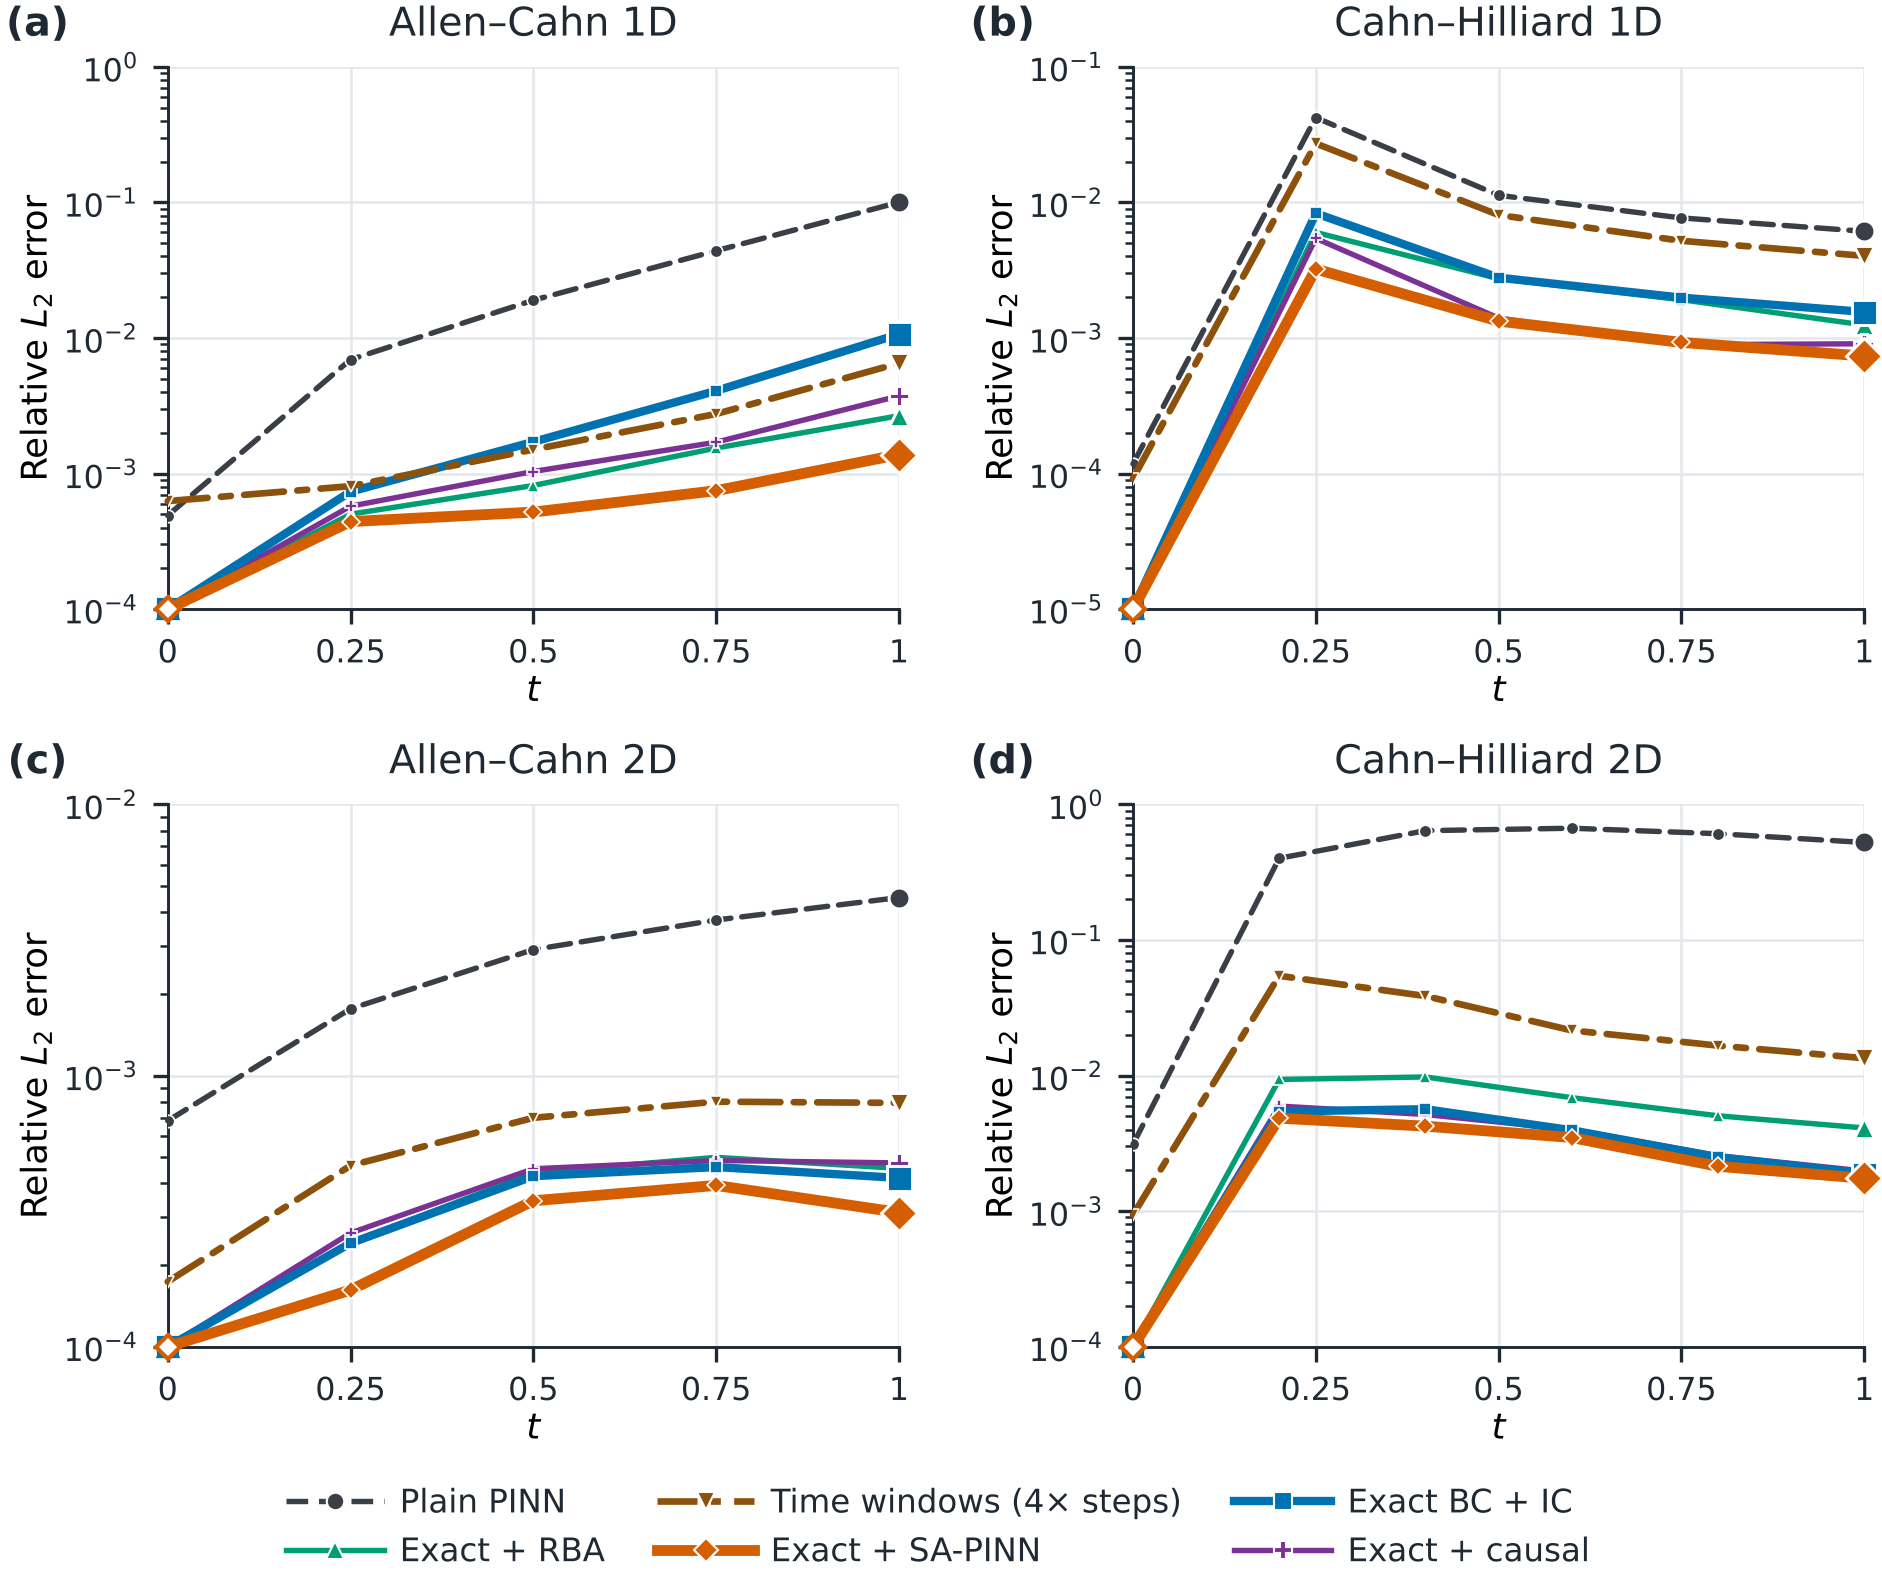
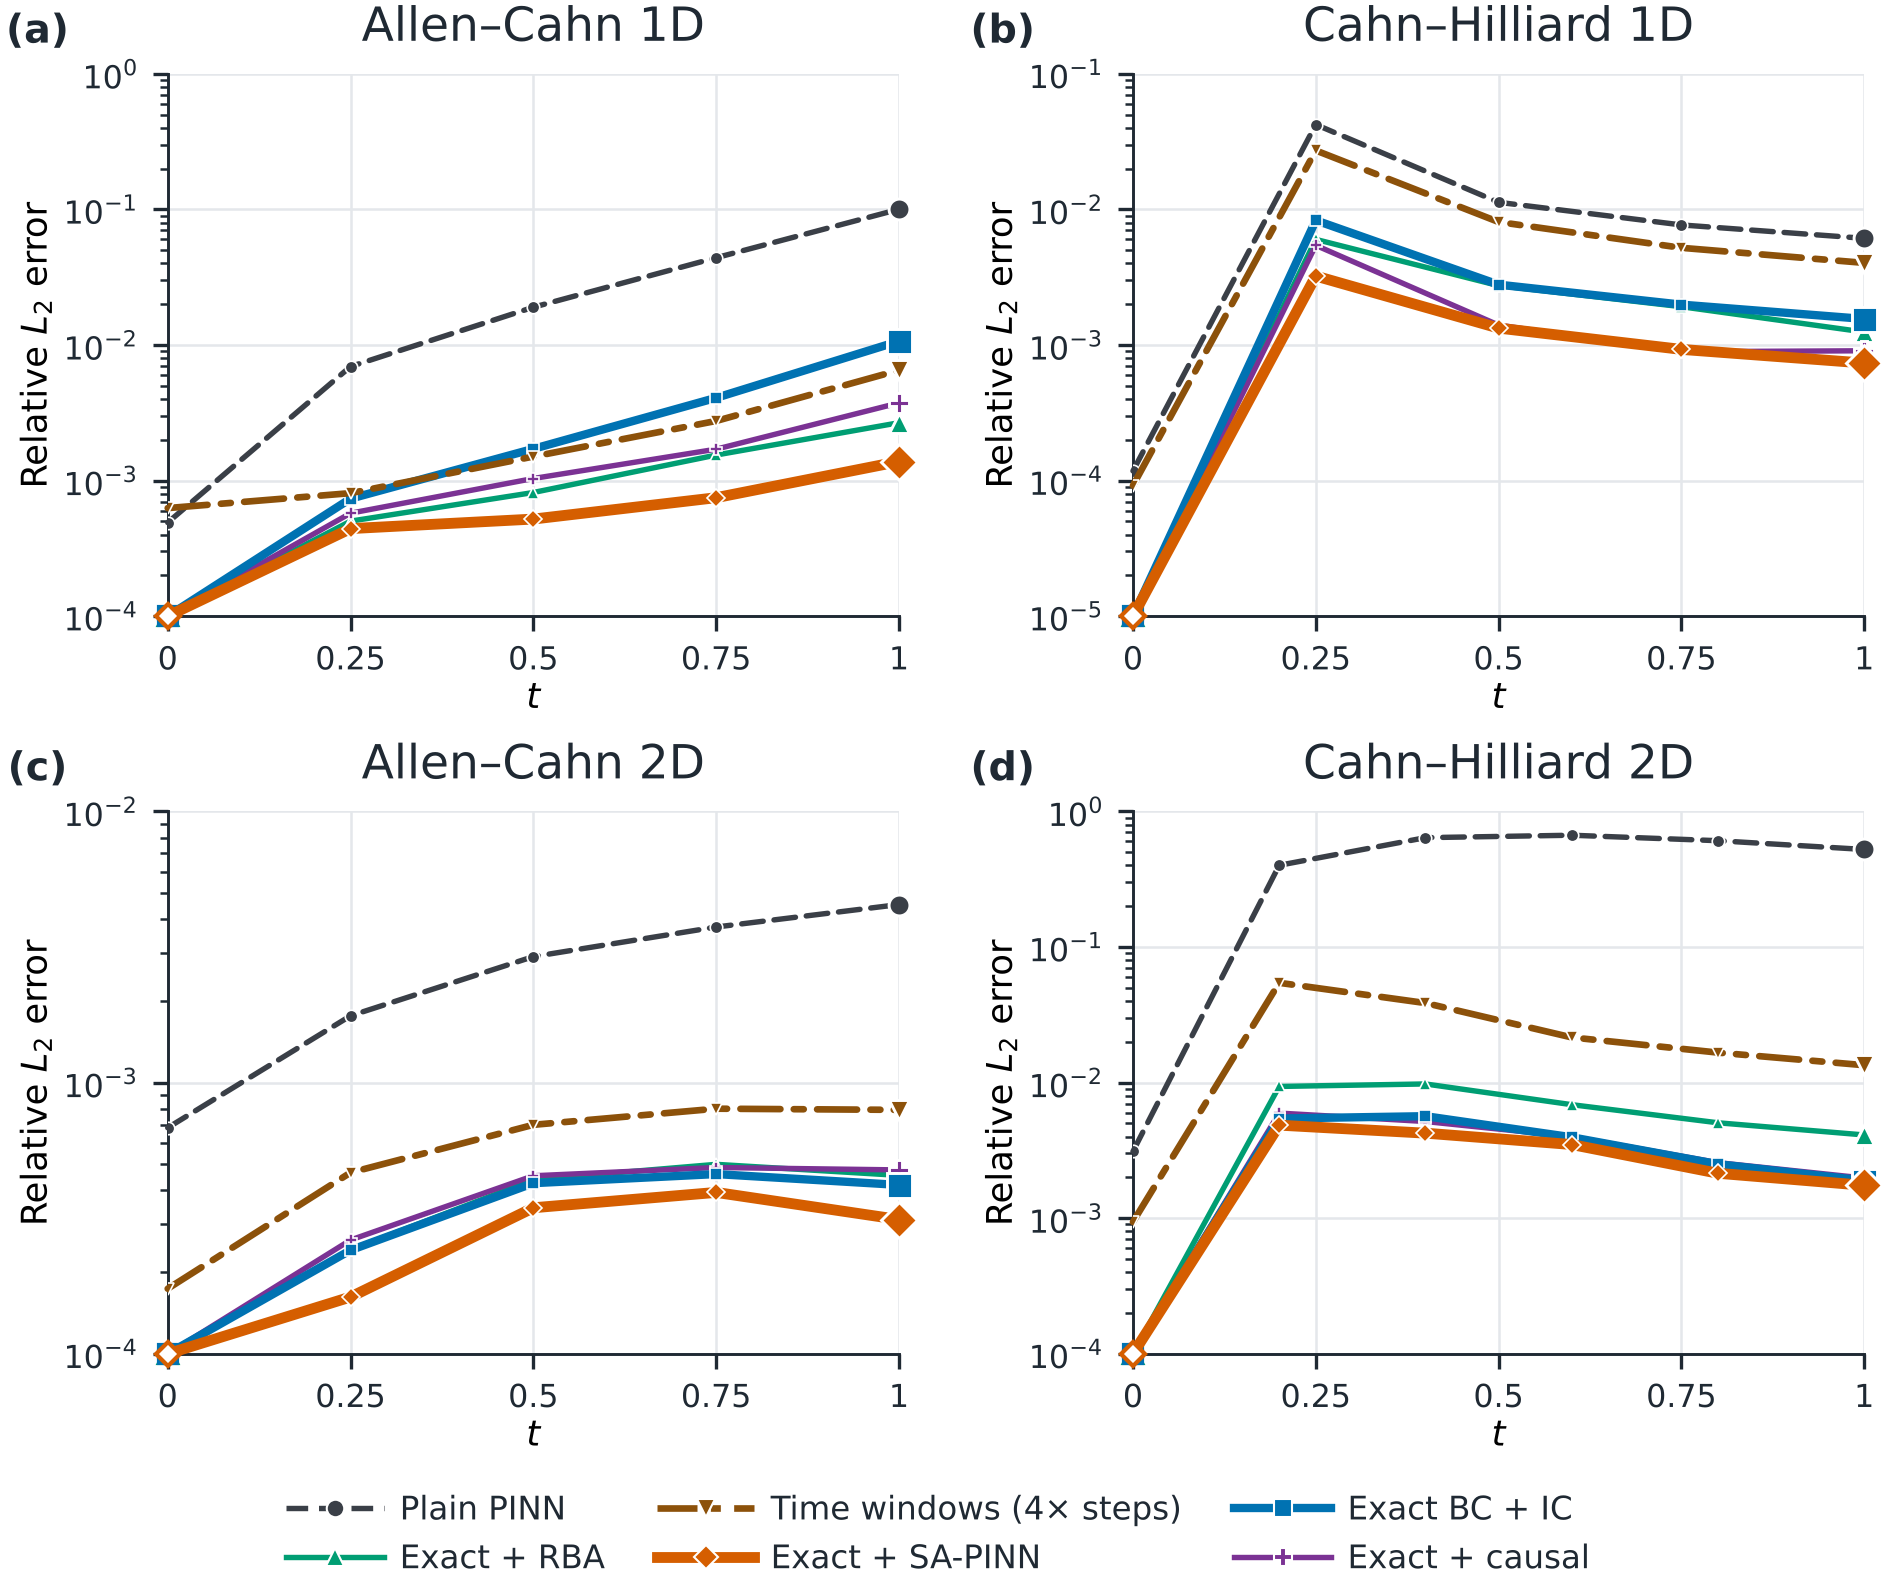
Figure 7: panel problem names at about 9-10 pt when printed at text width

diff --git a/tools/make_methods_figure.py b/tools/make_methods_figure.py
@@ -356,7 +356,7 @@ def fig7(ex, name="paper_figure7", label_ends=False):
         x = ax.transAxes.inverted().transform(((bb.x0 + bb.x1) / 2, 0))[0]
         ax.text(x, 1.04, ax._panel_letter, transform=ax.transAxes, fontsize=9.5, fontweight="bold",
                 va="bottom", ha="center")
-        ax.text(0.5, 1.04, ax._panel_name, transform=ax.transAxes, fontsize=9.5, va="bottom", ha="center")
+        ax.text(0.5, 1.04, ax._panel_name, transform=ax.transAxes, fontsize=11.3, va="bottom", ha="center")
     for ext in ("png", "pdf"):          # cropped to the drawing, with a hairline margin
         fig.savefig(os.path.join(OUT, f"{name}.{ext}"), dpi=300, bbox_inches="tight", pad_inches=0.02)
     plt.close(fig)
